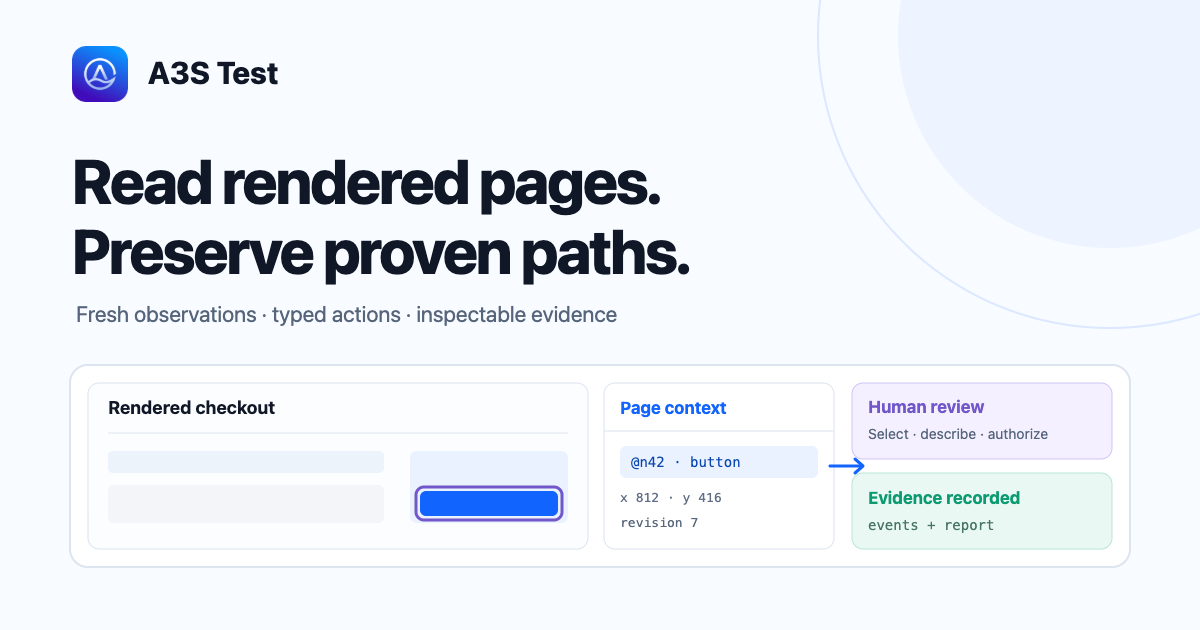
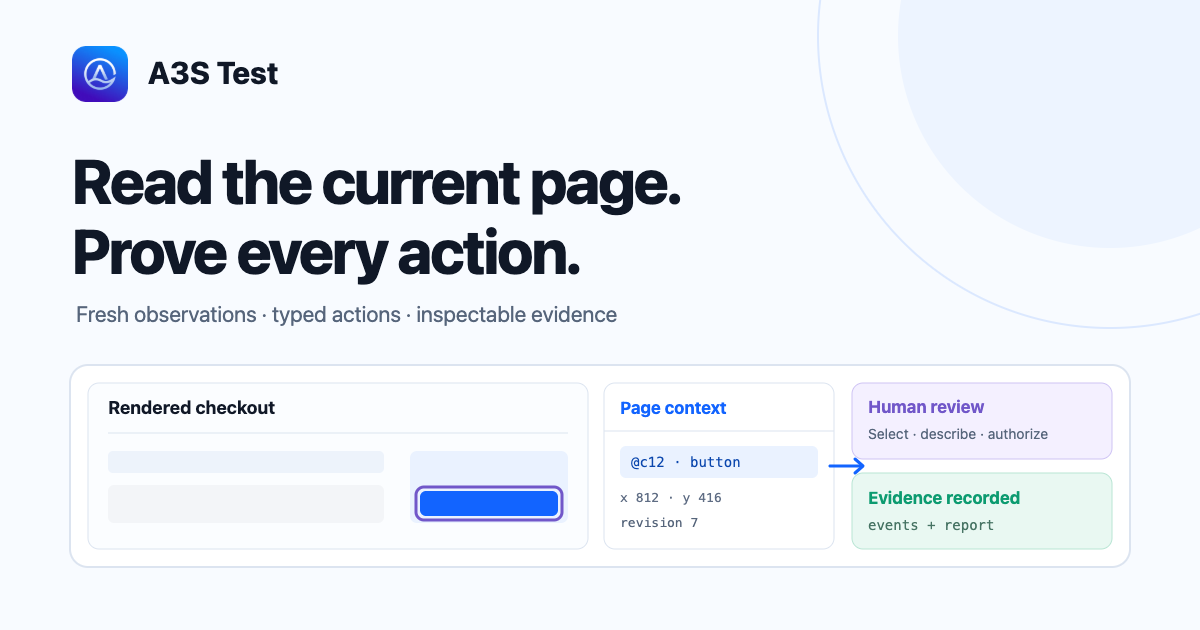
docs(website): clarify testing path and evidence refs

Changed region(s): [[0.0925, 0.2413, 0.5858, 0.4524], [0.5242, 0.7238, 0.555, 0.754]]

diff --git a/website/theme/home-copy.ts b/website/theme/home-copy.ts
@@ -143,6 +143,7 @@ type LocalizedCopy = {
   ctaTitle: string;
   ctaBody: string;
   quickStart: string;
+  testkitGuide: string;
   architecture: string;
   footer: string;
   experience: ExperienceCopy;
@@ -150,14 +151,14 @@ type LocalizedCopy = {
 
 export const homeCopy: Record<Locale, LocalizedCopy> = {
   zh: {
-    heroTitle: ['让 Agent 看清页面', '把跑通的路径变成回归'],
+    heroTitle: ['让 Agent 看清页面', '让每一步都能复现和验收'],
     heroBody:
-      '嵌入 Test Kit 后，A3S Test 能在页面渲染完成后读取可访问语义、组件归属、稳定定位器和真实坐标。Agent 依据最新观察执行类型化动作；你也可以点选单个或一批问题，授权修复，再用新页面证据验收。',
-    startExperience: '体验 Test Kit 点选',
+      'A3S Test 为编码 Agent 保留浏览器会话，让每个动作都绑定最新页面观察，并把结果写入可复查证据。接入 Test Kit 后，还能读取组件归属、稳定定位器、真实坐标与 UI 证据，并把人工点选的单个或批量问题明确送入修复。',
+    startExperience: '在本页标记一个问题',
     readDocs: '运行第一个测试',
-    installTitle: '安装 A3S Test，开始第一次运行',
+    installTitle: '一条命令，安装 CLI 与 Agent Skill',
     installBody:
-      '选择系统，复制一条命令，同时安装版本匹配的 CLI 与 Agent Skill。',
+      '选择 macOS、Linux 或 Windows，复制命令后即可安装相同版本的 CLI 与 Agent Skill。',
     installTabs: '选择安装平台',
     installPackage: 'CLI + Agent Skill',
     installNote: '安装器校验发布归档的 SHA-256，并保持 CLI 与 Skill 版本一致。',
@@ -166,11 +167,11 @@ export const homeCopy: Record<Locale, LocalizedCopy> = {
     copy: '复制命令',
     copied: '命令已复制',
     copyError: '复制失败，请手动选择命令',
-    proofTitle: '对照界面期望与浏览器事实',
+    proofTitle: '把产品期望与真实页面逐项核对',
     proofBody:
-      'PRD 提供产品要求，设计稿提供结构与视觉期望，Test Kit 记录当前浏览器事实。人工确认前两类来源后，它们成为 Surface Contract；A3S Test 再按当前页面修订逐项比对并保留差异证据。',
-    contractPanelLabel: '从期望来源到真实页面',
-    contractExpectedLabel: '期望来源',
+      'PRD 说明产品应该完成什么，设计稿说明界面应该如何呈现，Test Kit 记录浏览器实际渲染了什么。人工审阅前两类候选后，A3S Test 把它们发布为 Surface Contract，再与当前页面修订逐项核对并保存差异证据。',
+    contractPanelLabel: '产品期望与当前页面的核对路径',
+    contractExpectedLabel: '产品期望',
     contractObservedLabel: '当前事实',
     contractPrdTitle: '应该完成什么',
     contractPrdBody: '用户结果、文案、业务约束与尚待决定的事项。',
@@ -178,26 +179,26 @@ export const homeCopy: Record<Locale, LocalizedCopy> = {
     contractDesignBody: '区域层级、相互关系、尺寸、位置与视觉约束。',
     contractPageTitle: '现在实际呈现什么',
     contractPageBody: '本次修订的语义、状态、组件、定位器与几何。',
-    contractReviewTitle: '确认期望来源',
-    contractReviewBody: '选择可采纳的候选，处理冲突与未决事项。',
-    contractCompareTitle: '核对当前修订',
+    contractReviewTitle: '人工确认候选',
+    contractReviewBody: '选择可采纳的要求，处理冲突与未决事项。',
+    contractCompareTitle: '核对真实页面',
     contractCompareBody: '逐项检查已确认期望与真实页面。',
-    contractReportTitle: '得到可复查差异',
+    contractReportTitle: '保留可复查差异',
     contractReportBody: '记录来源、决定、页面修订与证据。',
     contractDisclaimer:
-      'PRD 和设计稿描述期望，不能替代浏览器可访问树。只有经人工审阅的候选才能进入 Surface Contract，页面事实仍由当前浏览器修订提供。',
-    contractGuide: '了解 Surface Contract',
-    capabilitiesTitle: '一次完整测试，五个可检查步骤',
+      'PRD 和设计稿产生的是期望候选，不是浏览器可访问树。只有经人工审阅的候选才能进入 Surface Contract，页面事实仍由当前浏览器修订提供。',
+    contractGuide: '了解界面契约如何生成',
+    capabilitiesTitle: '从观察到验收，每一步都有证据',
     capabilitiesBody:
-      '每一步都有明确输入和权限。Agent 只能依据最新观察行动，修复必须人工发送，结果必须由新页面证据确认。',
+      'A3S Test 不靠固定等待猜测页面状态，也不让旧引用跨越页面变化。一次完整测试从最新观察开始，以新页面证据结束。',
     capabilities: [
       {
-        title: '观察最新页面',
-        body: '读取 DOM、可访问语义、交互状态、布局、组件归属和页面修订。',
+        title: '观察当前页面',
+        body: '读取 DOM、可访问语义、交互状态、布局与组件归属，并生成新的观察编号。',
         code: '01 · observe',
       },
       {
-        title: '定位可操作目标',
+        title: '锁定可操作目标',
         body: '优先使用角色、名称和稳定定位器，并保留组件来源与多坐标空间几何。',
         code: '02 · locate',
       },
@@ -207,20 +208,20 @@ export const homeCopy: Record<Locale, LocalizedCopy> = {
         code: '03 · act',
       },
       {
-        title: '人工确认修复范围',
+        title: '由人确认修复范围',
         body: '点选单个或一批问题，补充期望结果，明确发送后才授予修复权限。',
         code: '04 · authorize',
       },
       {
-        title: '用新证据验收',
+        title: '用新页面证明结果',
         body: '重新观察页面，运行断言并保存报告；跑通的路径可以固化为 ACL。',
         code: '05 · prove',
       },
     ],
-    workflowTitle: '先探索，再固化已经跑通的步骤',
+    workflowTitle: '未知路径先探索，稳定路径再回归',
     workflowBody:
       'Agent 会话适合一边观察一边决策；ACL 套件适合重复运行明确动作和断言。两者共用动作、驱动、证据与清理规则。',
-    workflowAgent: '用 Agent 会话探索未知',
+    workflowAgent: '用 Agent 会话探索未知路径',
     workflowAgentBody:
       '每次只依据最新观察执行一个动作，适合复现问题、试走流程和理解陌生页面。',
     workflowAcl: '用 ACL 重复验证已知',
@@ -231,10 +232,10 @@ export const homeCopy: Record<Locale, LocalizedCopy> = {
     workflowObserve: '最新观察',
     workflowDecide: '类型化动作',
     workflowAct: '重新观察',
-    workflowProve: '本地证据',
-    boundaryTitle: '事实、建议、授权与修改彼此分开',
+    workflowProve: '断言与证据',
+    boundaryTitle: '模型可以建议，修改必须明确授权',
     boundaryBody:
-      '浏览器只提供事实，模型只提出候选，人决定哪些问题可以发送，拥有工作区的编码 Agent 才能修改源码。最终结果仍由本地断言和新页面证据决定。',
+      '浏览器提供事实，模型提出候选，人决定哪些问题可以发送，拥有工作区的编码 Agent 才能修改源码。修改后仍必须用本地断言和新页面证据验收。',
     boundaryFacts: '浏览器事实',
     boundaryFactsBody: '当前 DOM、可访问语义、状态、几何、组件与断言结果。',
     boundaryAdvice: '模型建议',
@@ -244,7 +245,7 @@ export const homeCopy: Record<Locale, LocalizedCopy> = {
     boundaryRepair: '修改与验收',
     boundaryRepairBody:
       '编码 Agent 在授权范围内修改，A3S Test 用新浏览器验证，再交回人工验收。',
-    surfacesTitle: '同一套测试语义，适配 Web、GUI 与 TUI',
+    surfacesTitle: '同一套动作与证据契约，适配 Web、GUI 与 TUI',
     surfacesBody:
       '动作、策略、证据和结果共用一套 Core 契约；每类界面由专用驱动负责感知、执行和精确清理。',
     surfaceWeb: 'Web',
@@ -255,10 +256,11 @@ export const homeCopy: Record<Locale, LocalizedCopy> = {
       'macOS 使用锁定的 CUA 契约，并在真实 arm64 主机验证感知、权限和清理。Windows 与 Linux 后端仍需单独审核。',
     surfaceTui: 'TUI',
     surfaceTuiBody: '通过自有 PTY / ConPTY 进程树和有界终端语义运行 ACL 套件。',
-    ctaTitle: '从一个真实页面开始',
+    ctaTitle: '从观察一个真实页面开始',
     ctaBody:
-      '先在开发环境挂载 Test Kit，让 A3S Test 读到页面上下文。随后跑通一个动作、保存证据，再把稳定流程写成 ACL。',
-    quickStart: '接入 Test Kit',
+      '安装 CLI，启动一个带可观察成功条件的会话，再执行第一次观察。需要组件、坐标或人工点选时，再在开发环境接入 Test Kit；跑通后将稳定路径写成 ACL。',
+    quickStart: '运行第一个测试',
+    testkitGuide: '接入 Test Kit',
     architecture: '查看架构',
     footer: '看清当前页面，只做获准动作，保留可复查证据。',
     experience: {
@@ -338,14 +340,14 @@ export const homeCopy: Record<Locale, LocalizedCopy> = {
     },
   },
   en: {
-    heroTitle: ['Read rendered pages.', 'Preserve proven paths.'],
+    heroTitle: ['Read the current page.', 'Prove every action.'],
     heroBody:
-      'With Test Kit embedded, A3S Test can read accessible semantics, component ownership, stable locators, and real geometry after the page renders. Agents act through typed, observation-bound commands; reviewers can mark one issue or a batch, authorize repair, and verify the result against fresh page evidence.',
-    startExperience: 'Try Test Kit marking',
+      'A3S Test keeps a browser session alive for a coding agent, binds every action to a fresh observation, and writes the outcome to inspectable evidence. Add Test Kit for component ownership, stable locators, real geometry, and UI evidence, or to send one marked issue or a batch into repair.',
+    startExperience: 'Mark an issue on this page',
     readDocs: 'Run your first test',
-    installTitle: 'Install A3S Test and run your first check',
+    installTitle: 'Install the CLI and Agent Skill with one command',
     installBody:
-      'Choose your system and copy one command to install matching CLI and Agent Skill versions.',
+      'Choose macOS, Linux, or Windows and copy one command to install matching CLI and Agent Skill versions.',
     installTabs: 'Choose an installation platform',
     installPackage: 'CLI + Agent Skill',
     installNote:
@@ -355,11 +357,11 @@ export const homeCopy: Record<Locale, LocalizedCopy> = {
     copy: 'Copy command',
     copied: 'Command copied',
     copyError: 'Copy failed. Select the command manually.',
-    proofTitle: 'Compare expectations with the rendered page',
+    proofTitle: 'Reconcile product expectations with the rendered page',
     proofBody:
-      'A PRD supplies product requirements, a design supplies structural and visual expectations, and Test Kit records current browser facts. Human-reviewed sources become a Surface Contract that A3S Test reconciles against the current page revision with difference evidence attached.',
-    contractPanelLabel: 'From expected sources to the rendered page',
-    contractExpectedLabel: 'Expected source',
+      'A PRD says what the product should accomplish, a design says how the interface should appear, and Test Kit records what the browser actually rendered. After human review, A3S Test publishes the first two as a Surface Contract, checks it against the current page revision, and retains evidence for every difference.',
+    contractPanelLabel: 'How product expectations meet the current page',
+    contractExpectedLabel: 'Product expectation',
     contractObservedLabel: 'Current fact',
     contractPrdTitle: 'What should the product do?',
     contractPrdBody:
@@ -370,29 +372,30 @@ export const homeCopy: Record<Locale, LocalizedCopy> = {
     contractPageTitle: 'What did this revision render?',
     contractPageBody:
       'Semantics, state, components, locators, and geometry from this page revision.',
-    contractReviewTitle: 'Confirm expected sources',
+    contractReviewTitle: 'Review the candidates',
     contractReviewBody:
-      'Select admissible candidates and resolve conflicts or open decisions.',
-    contractCompareTitle: 'Check the current revision',
+      'Select admissible requirements and resolve conflicts or open decisions.',
+    contractCompareTitle: 'Check the rendered page',
     contractCompareBody:
       'Compare every approved expectation with the rendered page.',
-    contractReportTitle: 'Produce reviewable differences',
+    contractReportTitle: 'Retain reviewable differences',
     contractReportBody:
       'Record sources, decisions, page revision, and evidence.',
     contractDisclaimer:
-      'PRDs and designs describe expectations; they do not replace the browser accessibility tree. Only human-reviewed candidates enter a Surface Contract, while the current browser revision remains the source of rendered facts.',
-    contractGuide: 'Understand Surface Contracts',
-    capabilitiesTitle: 'One complete test in five checkable steps',
+      'PRDs and designs produce expectation candidates, not a browser accessibility tree. Only human-reviewed candidates enter a Surface Contract, while the current browser revision remains the source of rendered facts.',
+    contractGuide: 'See how interface contracts are built',
+    capabilitiesTitle:
+      'Every step from observation to acceptance leaves evidence',
     capabilitiesBody:
-      'Each step has an explicit input and authority. Agents act only from fresh observations, repair requires human submission, and fresh page evidence decides the result.',
+      'A3S Test does not guess page state with fixed delays or carry stale refs across page changes. A complete test starts from a fresh observation and ends with fresh page evidence.',
     capabilities: [
       {
         title: 'Observe the current page',
-        body: 'Read DOM, accessible semantics, interaction state, layout, component ownership, and page revision.',
+        body: 'Read DOM, accessible semantics, interaction state, layout, and component ownership, then issue a fresh observation ID.',
         code: '01 · observe',
       },
       {
-        title: 'Locate an actionable target',
+        title: 'Resolve an actionable target',
         body: 'Prefer role, name, and stable locators while retaining component source and multi-space geometry.',
         code: '02 · locate',
       },
@@ -402,17 +405,17 @@ export const homeCopy: Record<Locale, LocalizedCopy> = {
         code: '03 · act',
       },
       {
-        title: 'Authorize the repair scope',
+        title: 'Have a person authorize repair',
         body: 'Mark one issue or a batch, describe the expected result, and grant repair authority only by sending it.',
         code: '04 · authorize',
       },
       {
-        title: 'Verify with fresh evidence',
+        title: 'Prove the result on a fresh page',
         body: 'Observe again, run assertions, and retain the report. Proven paths can then become ACL regressions.',
         code: '05 · prove',
       },
     ],
-    workflowTitle: 'Explore first. Preserve what works.',
+    workflowTitle: 'Explore unknown paths. Regress stable ones.',
     workflowBody:
       'Agent sessions support observation-led decisions. ACL suites repeat explicit actions and assertions. Both use the same actions, drivers, evidence, and cleanup rules.',
     workflowAgent: 'Explore unknown paths with an agent session',
@@ -426,10 +429,10 @@ export const homeCopy: Record<Locale, LocalizedCopy> = {
     workflowObserve: 'Fresh observation',
     workflowDecide: 'Typed action',
     workflowAct: 'Observe again',
-    workflowProve: 'Local evidence',
-    boundaryTitle: 'Separate facts, advice, authority, and edits',
+    workflowProve: 'Assertions and evidence',
+    boundaryTitle: 'Models may advise. Source changes require authorization.',
     boundaryBody:
-      'The browser supplies facts, models propose candidates, people decide what may be sent, and only a workspace-owning coding agent edits source. Local assertions and fresh page evidence still decide the result.',
+      'The browser supplies facts, models propose candidates, people decide what may be sent, and only a workspace-owning coding agent edits source. Local assertions and fresh page evidence must still accept the change.',
     boundaryFacts: 'Browser facts',
     boundaryFactsBody:
       'Current DOM, accessible semantics, state, geometry, components, and assertion results.',
@@ -442,7 +445,7 @@ export const homeCopy: Record<Locale, LocalizedCopy> = {
     boundaryRepair: 'Edits and acceptance',
     boundaryRepairBody:
       'The coding agent edits within scope, A3S Test verifies in a fresh browser, and the reviewer accepts or reopens the result.',
-    surfacesTitle: 'One test contract across Web, GUI, and TUI',
+    surfacesTitle: 'One action and evidence contract across Web, GUI, and TUI',
     surfacesBody:
       'Actions, policy, evidence, and results share one Core contract. A dedicated driver owns perception, execution, and exact cleanup for each surface.',
     surfaceWeb: 'Web',
@@ -454,10 +457,11 @@ export const homeCopy: Record<Locale, LocalizedCopy> = {
     surfaceTui: 'TUI',
     surfaceTuiBody:
       'ACL suites through owned PTY / ConPTY process trees and bounded terminal semantics.',
-    ctaTitle: 'Start with one real page',
+    ctaTitle: 'Start with one real page observation',
     ctaBody:
-      'Mount Test Kit in development so A3S Test can read the page context. Prove one action, retain the evidence, and encode the stable flow as ACL.',
-    quickStart: 'Integrate Test Kit',
+      'Install the CLI, start a session with an observable success condition, and take the first observation. Add Test Kit when you need components, geometry, or human marking, then preserve the stable path as ACL.',
+    quickStart: 'Run your first test',
+    testkitGuide: 'Add Test Kit',
     architecture: 'Review architecture',
     footer:
       'Read the current page. Take approved actions. Retain reviewable evidence.',

diff --git a/website/rspress.config.ts b/website/rspress.config.ts
@@ -13,7 +13,7 @@ export default defineConfig({
   siteOrigin,
   title: 'A3S Test',
   description:
-    'A3S Test gives coding agents rendered page context, typed actions, repeatable ACL regressions, and fresh evidence for human-authorized repair.',
+    'A3S Test gives coding agents fresh page observations, typed actions, inspectable evidence, and repeatable ACL regressions.',
   lang: 'zh',
   icon: '/a3s-logo.png',
   logo: '/a3s-logo.png',
@@ -36,14 +36,14 @@ export default defineConfig({
       label: '简体中文',
       title: 'A3S Test',
       description:
-        'A3S Test 让编码 Agent 读取渲染后的页面上下文，通过类型化动作探索界面，把跑通的流程固化为 ACL，并用新证据验收人工授权的修复。',
+        'A3S Test 让编码 Agent 依据最新页面观察执行类型化动作，记录可复查证据，并把稳定路径固化为 ACL 回归。',
     },
     {
       lang: 'en',
       label: 'English',
       title: 'A3S Test',
       description:
-        'A3S Test gives coding agents rendered page context, typed actions, repeatable ACL regressions, and fresh evidence for human-authorized repair.',
+        'A3S Test gives coding agents fresh page observations, typed actions, inspectable evidence, and repeatable ACL regressions.',
     },
   ],
   head: [

diff --git a/website/theme/components/HomeLayout.tsx b/website/theme/components/HomeLayout.tsx
@@ -274,16 +274,16 @@ export function HomeLayout() {
         <div className="test-actions">
           <a
             className="test-button test-button-primary"
-            href={route('/guide/testkit.html')}
+            href={route('/guide/')}
           >
             {copy.quickStart}
             <ArrowRight aria-hidden="true" size={16} weight="bold" />
           </a>
           <a
             className="test-button test-button-secondary"
-            href={route('/concepts/architecture.html')}
+            href={route('/guide/testkit.html')}
           >
-            {copy.architecture}
+            {copy.testkitGuide}
           </a>
         </div>
       </section>

diff --git a/CHANGELOG.md b/CHANGELOG.md
@@ -32,9 +32,11 @@
 
 - Reframed the bilingual homepage around fresh rendered-page observations,
   typed actions, exploration-to-ACL regression, human-authorized repair, and
-  reviewed PRD/design expectations. The current quick start now routes readers
-  by task, explains observation-scoped browser and Test Kit references, and
-  keeps the live specimen's page-local storage boundary explicit.
+  reviewed PRD/design expectations while presenting Test Kit as an optional
+  context enhancement. The current quick start now routes readers by task,
+  pins staged documentation to the published installer, distinguishes
+  actionable browser and Page Context refs from read-only UI evidence refs,
+  and keeps the live specimen's page-local storage boundary explicit.
 - Tightened the desktop Test Kit dock, tool tray, finding editor, settings,
   and batch workspace while retaining 44-pixel targets on mobile and coarse
   pointers, including 320-pixel-wide viewports.
